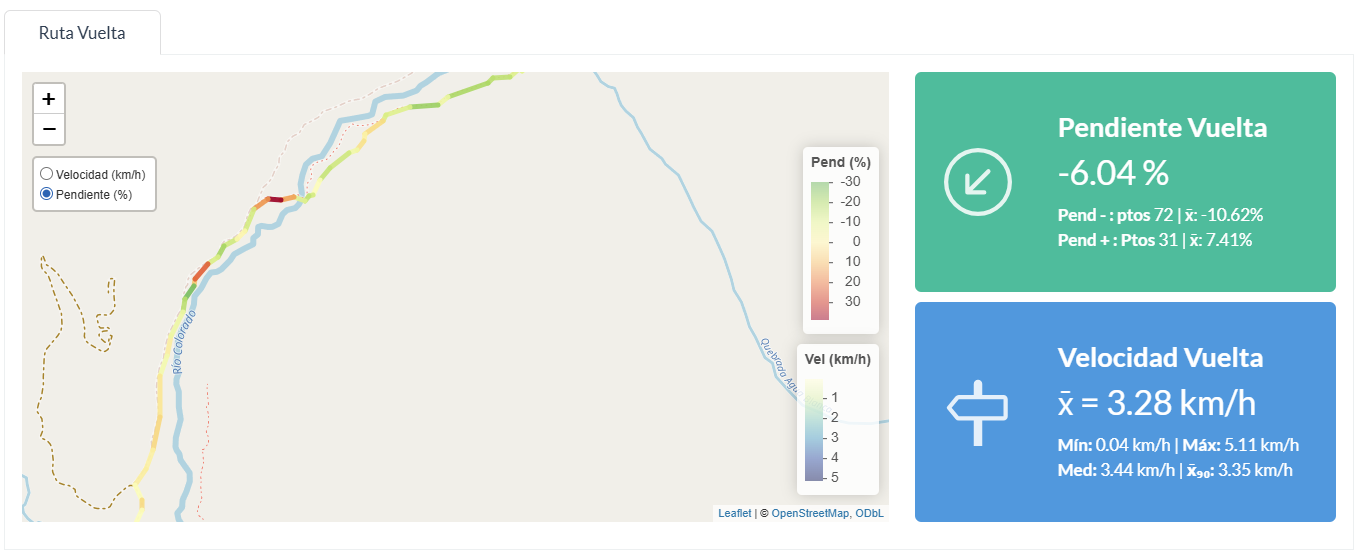
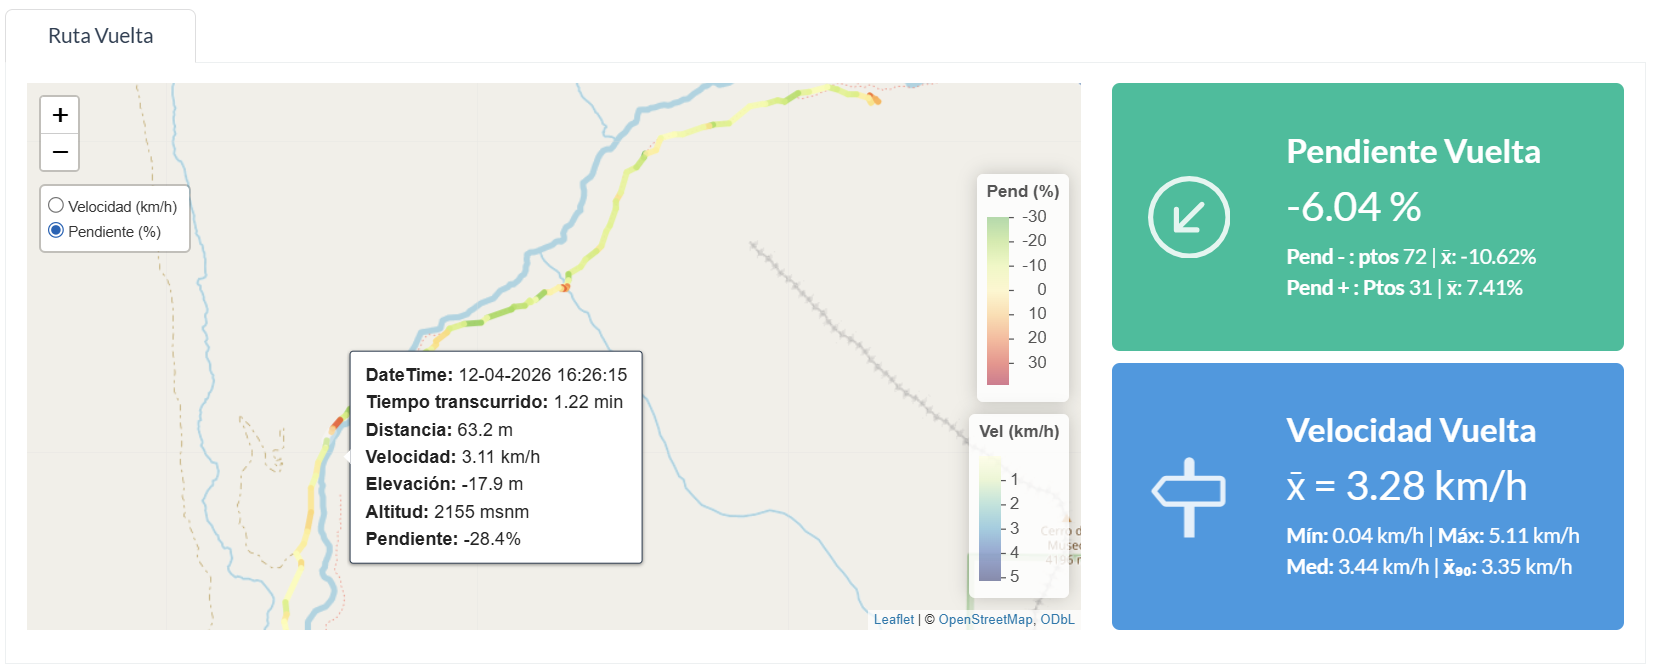
readme

diff --git a/README.md b/README.md
@@ -1,72 +1,45 @@
----
-editor_options:
-  markdown:
-    wrap: 72
----
+# Performance Hiking Trail: Dashboard Baños Azules 🏔️🥾
 
-import re
+Este proyecto es un **Dashboard Interactivo de Rendimiento Deportivo** desarrollado en **Quarto (`.qmd`)** enfocado en el análisis espacial y temporal de la ruta de senderismo de alta montaña hacia **Baños Azules**, Chile. 
 
-# Definiendo el contenido detallado y profesional para el README.md
+> ⚠️ **REQUISITO CRÍTICO DE VISUALIZACIÓN:** Este dashboard ha sido diseñado exclusivamente para entornos de análisis en estaciones de trabajo fijas y **no es responsivo** (no cuenta con soporte autoajustable para dispositivos móviles o pantallas divididas). Para garantizar una correcta visualizacion, se requiere obligatoriamente un **ancho de pantalla mínimo de 1200px** (resolución estándar de notebooks de 13" o monitores de escritorio).
+>
+> Acceso al reporte [dashboard HTML](https://sarudalf3.github.io/Dashboard_trail/)
+>
+>
 
-readme_content = """\# Performance Hiking Trail: Dashboard Baños Azules
-🏔️🥾
+-----
 
-Este proyecto es un **Dashboard Interactivo de Rendimiento Deportivo**
-desarrollado en **Quarto (`.qmd`)** enfocado en el análisis espacial y
-temporal de la ruta de senderismo de alta montaña hacia **Baños
-Azules**, Chile.
+El objetivo principal es procesar archivos de posicionamiento global (`.gpx`), estructurar métricas analíticas avanzadas de velocidad, altitud y pendientes geográficas, y presentarlas visualmente para evaluar el desempeño físico tramo a tramo.
 
-El objetivo principal es procesar archivos de posicionamiento global
-(`.gpx`), estructurar métricas analíticas avanzadas de velocidad,
-altitud y pendientes geográficas, y presentarlas visualmente para
-evaluar el desempeño físico tramo a tramo.
-
-------------------------------------------------------------------------
+-----
 
 ## 📊 Información del Dashboard
 
-El panel está estructurado estratégicamente en secciones dinámicas e
-independientes para facilitar el análisis del trekking:
+El panel está estructurado estratégicamente en secciones dinámicas e independientes para facilitar el análisis del trekking:
 
 ### 1. Resumen General
 
-Esta sección consolida las métricas macro de la travesía mediante
-indicadores de alto impacto visual (`value_boxes` personalizados).
-Permite evaluar rápidamente la distancia acumulada, altitudes extremas,
-desniveles totales y el tiempo neto de marcha. Además, incluye un
-gráfico de perfil de elevación detallado desarrollado en `ggplot2`,
-ideal para identificar visualmente la exigencia del terreno.
+Esta sección consolida las métricas macro de la travesía mediante indicadores de alto impacto visual (`value_boxes` personalizados).
+Permite evaluar rápidamente la distancia acumulada, altitudes extremas, desniveles totales y el tiempo neto de marcha. Además, incluye un gráfico de perfil de elevación detallado desarrollado en `ggplot2`, ideal para identificar visualmente la exigencia del terreno.
 
-![Resumen General del Dashboard](images/resumen_general.png)\
-*(Nota: Reemplazar esta ruta con la captura real de la vista principal
-del dashboard)*
+![Resumen General del Dashboard](img/05_general.png)
 
 ### 2. Mapas Interactivos de Trayecto (Ida y Vuelta)
 
-La sección de trayectos está separada mediante pestañas interactivas que
-dividen analíticamente la experiencia de **Ida (Ascenso)** y **Vuelta
-(Descenso)**. Cada pestaña cuenta con una distribución asimétrica en
-malla (`grid`):
+La sección de trayectos está separada mediante pestañas interactivas que dividen analíticamente la experiencia de **Ida (Ascenso)** y **Vuelta (Descenso)**. 
 
--   **Ida:** Enfocada en la exigencia física. Incorpora subsecciones que
-    desglosan la velocidad promedio (global, mínima, máxima, mediana y
-    promedio recortado al 90% $x̄_{90}$) y un análisis exhaustivo de
-    pendientes segregando la cantidad de puntos de ascenso frente a
-    falsos llanos o pequeños descansos en la subida.
--   **Vuelta:** Ajustada al ritmo de retorno y descenso. Configurada con
-    paletas visuales e íconos específicos que contrastan con la ida,
-    permitiendo medir los tramos técnicos de bajada rápida.
+Ambas pestañas integran un **Mapa Cartográfico Interactivo (`leaflet`)** que dibuja la traza del GPS. El mapa cuenta con control de capas para alternar la visualización entre la **Velocidad en tiempo real (km/h)** y el **Grado de Inclinación o Pendiente (%)**, equipado además con un *tooltip* de gran tamaño y respuesta *hover* optimizada para una lectura ultra precisa de cada coordenada.
 
-Ambas pestañas integran un **Mapa Cartográfico Interactivo (`leaflet`)**
-que dibuja la traza del GPS. El mapa cuenta con control de capas para
-alternar la visualización entre la **Velocidad en tiempo real (km/h)** y
-el **Grado de Inclinación o Pendiente (%)**, equipado además con un
-*tooltip* de gran tamaño y respuesta *hover* optimizada para una lectura
-ultra precisa de cada coordenada.
+- **Ida:** Enfocada en la exigencia física. Incorpora subsecciones que desglosan la velocidad promedio (global, mínima, máxima, mediana y promedio recortado al 90% $x̄_{90}$) y un análisis exhaustivo de pendientes segregando la cantidad de puntos de ascenso frente a falsos llanos o pequeños descansos en la subida.
+  ![Resumen Ida del Dashboard](img/02_ida.png)
 
-![Mapa Interactivo - Ruta Ida y Vuelta](images/mapas_interactivos.png)\
-*(Nota: Reemplazar esta ruta con la captura real de los mapas
-interactivos)*
+- **Vuelta:** Ajustada al ritmo de retorno y descenso. Configurada con paletas visuales e íconos específicos que contrastan con la ida, permitiendo medir los tramos técnicos de bajada rápida.
+  ![Resumen Vuelta del Dashboard](img/03_vuelta.png)
+
+- **Indicadores:** Fórmula de métricas calculadas en el dashboard.
+  ![Resumen KPI Dashboard](img/04_formulas.png)
+
 
 ------------------------------------------------------------------------
 
@@ -101,22 +74,11 @@ siguientes librerías especializadas:
 
 ### ⚠️ Limitación Crítica de Visualización (Layout No Responsivo)
 
-Este dashboard ha sido diseñado exclusivamente para entornos de análisis
-profesional en estaciones de trabajo fijas. **El diseño no es responsivo
-(No cuenta con soporte autoajustable para dispositivos móviles, tablets
-o pantallas divididas)**.
+Este dashboard ha sido diseñado exclusivamente para entornos de análisis profesional en estaciones de trabajo fijas. **El diseño no es responsivo (No cuenta con soporte autoajustable para dispositivos móviles, tablets o pantallas divididas)**.
 
-Para asegurar una correcta experiencia visual, el despliegue de las
-mallas analíticas (`g-col`), los mapas interactivos y la correcta
-lectura en paralelo de los `value_boxes` con tipografías ampliadas, se
-requiere cumplir obligatoriamente con el siguiente entorno de hardware:
-\* **Ancho de Pantalla Mínimo Recomendado:** **1200px** o superior
-
-(Resoluciones estándar de Notebooks de 13" en adelante, monitores Full
-HD 1080p o monitores de escritorio). \* **Visualización:** Se recomienda
-abrir el archivo HTML generado a **pantalla completa** en el navegador
-web de su preferencia (Chrome, Edge, Firefox, Safari) y mantener el
-nivel de zoom al 100%.
+ **Visualización:** Se recomienda
+abrir el archivo HTML generado  en el navegador
+web de su preferencia (Chrome, Edge, Firefox, Safari) y mantener el nivel de zoom al 90%.
 
 ### Dependencias para la Compilación local
 
@@ -133,11 +95,11 @@ instaladas ejecutando: text?code_stdout&code_event_index=2 Archivo
 README.md generado de manera exitosa.
 
 `r     install.packages(c("sf", "tidyverse", "leaflet", "bslib", "htmltools", "bsicons", "lubridate", "paletteer", "ggspatial", "units"))`
-4. Contar con el archivo de traza satelital `banos_azules.gpx` ubicado
+
+4\. Contar con el archivo de traza satelital `banos_azules.gpx` ubicado
 exactamente en la raíz del directorio de trabajo.
 
 Para compilar el panel ejecute en terminal: \`\`\`bash quarto render
 dash_draft.qmd
 
 Desarrollado con fines de optimización analítica en rutas de trekking de alta montaña. 🏔️
-"""